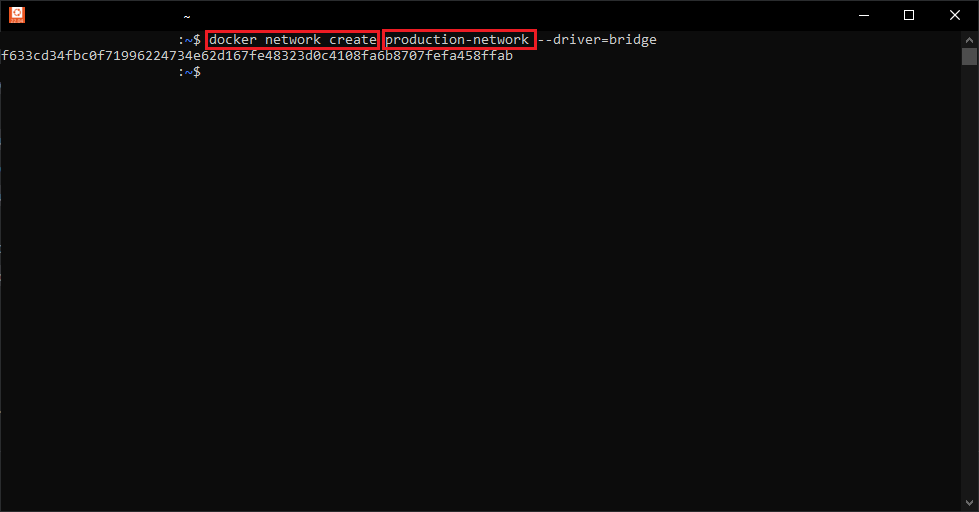
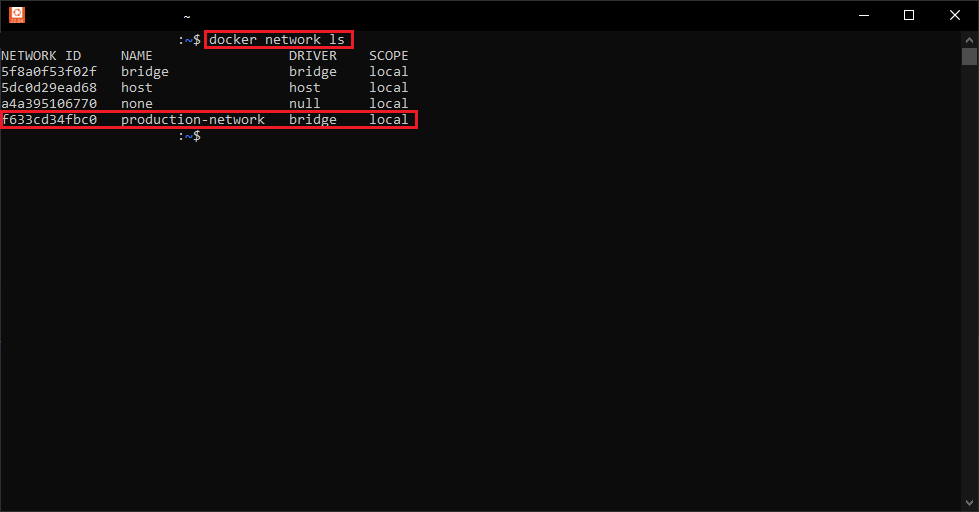
docs: add solution

Changed region(s): [[0.0, 0.0312, 0.6742, 0.2812]]

diff --git a/README.md b/README.md
@@ -1,5 +1,5 @@
-# 1. Créer un réseau (sur le driver local) nommé ``production-network``.
+# 2. Vérifier que le réseau ``production-network`` à bien été crée.
 
-Pour créer un réseau Docker, il suffit de taper la commande `docker network create` suivi du nom du réseau (et une précision du driver sur lequel le réseau doit être crée, `bridge` est le driver par défaut).
+Pour vérifier que le réseau à bien été crée, il suffit de lister tous les réseaux Docker, à l'aide de la commande `docker network ls`.
 
 ![](./assets/cli.png)
